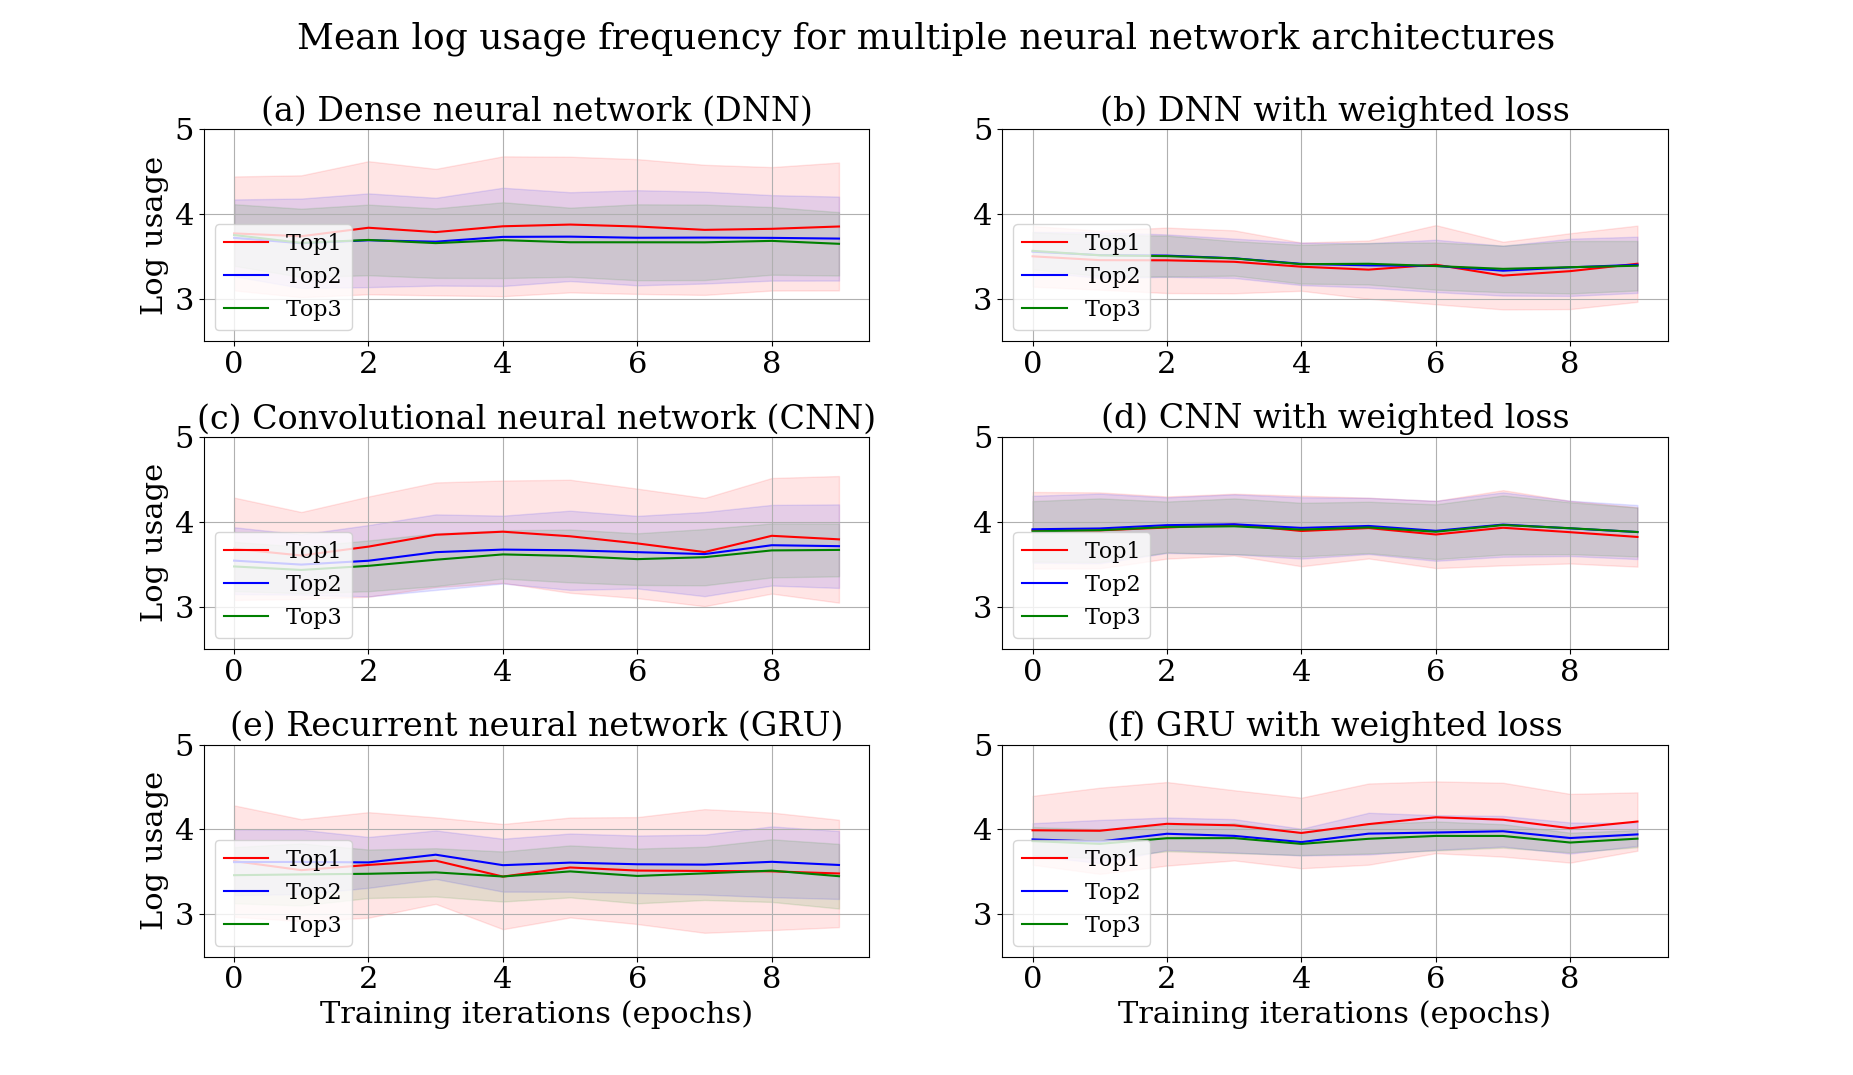
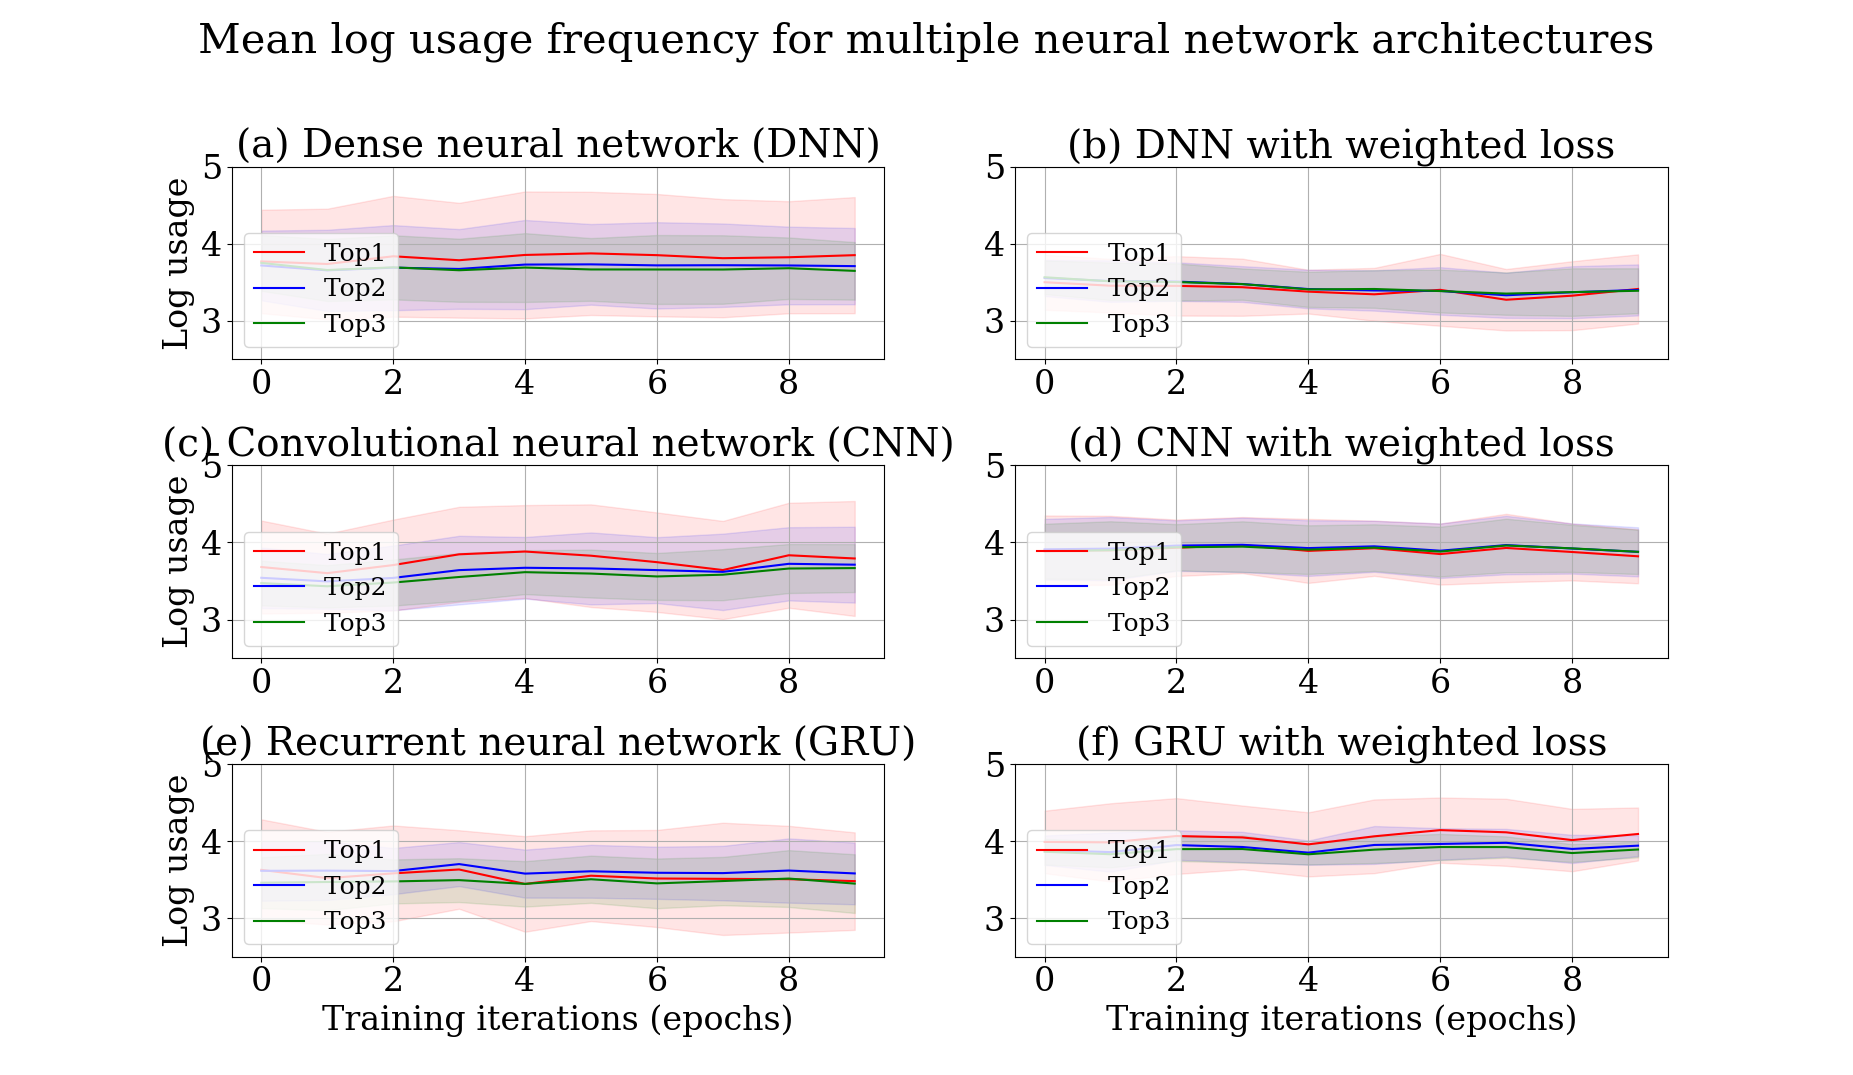
Update size

diff --git a/output_files/paper_plots_dense_cnn_rnn.py b/output_files/paper_plots_dense_cnn_rnn.py
@@ -14,24 +14,24 @@ all_approaches_path = ['dense_network/', 'dense_network_custom_loss/', 'cnn/', '
 
 titles = ['(a) Dense neural network (DNN)', '(b) DNN with weighted loss', '(c) Convolutional neural network (CNN)', '(d) CNN with weighted loss', '(e) Recurrent neural network (GRU)', '(f) GRU with weighted loss']
 
-font = {'family': 'serif', 'size': 22}
+font = {'family': 'serif', 'size': 24}
 
 alpha_fade = 0.1
 fig_size = (12, 12)
 
 plt.rc('font', **font)
 
-size_title = 24
-size_label = 22
+size_title = 28
+size_label = 24
 runs = 10
 epochs = 10
 
 loss_ylim = (0.0, 1.0)
 usage_ylim = (2.5, 5.0)
-precision_ylim = (0.95, 1.0)
+precision_ylim = (0.8, 1.0)
 gs = gridspec.GridSpec(3,2)
 leg_loc = 3
-leg_size = 16
+leg_size = 18
 
 
 def read_file(path):
